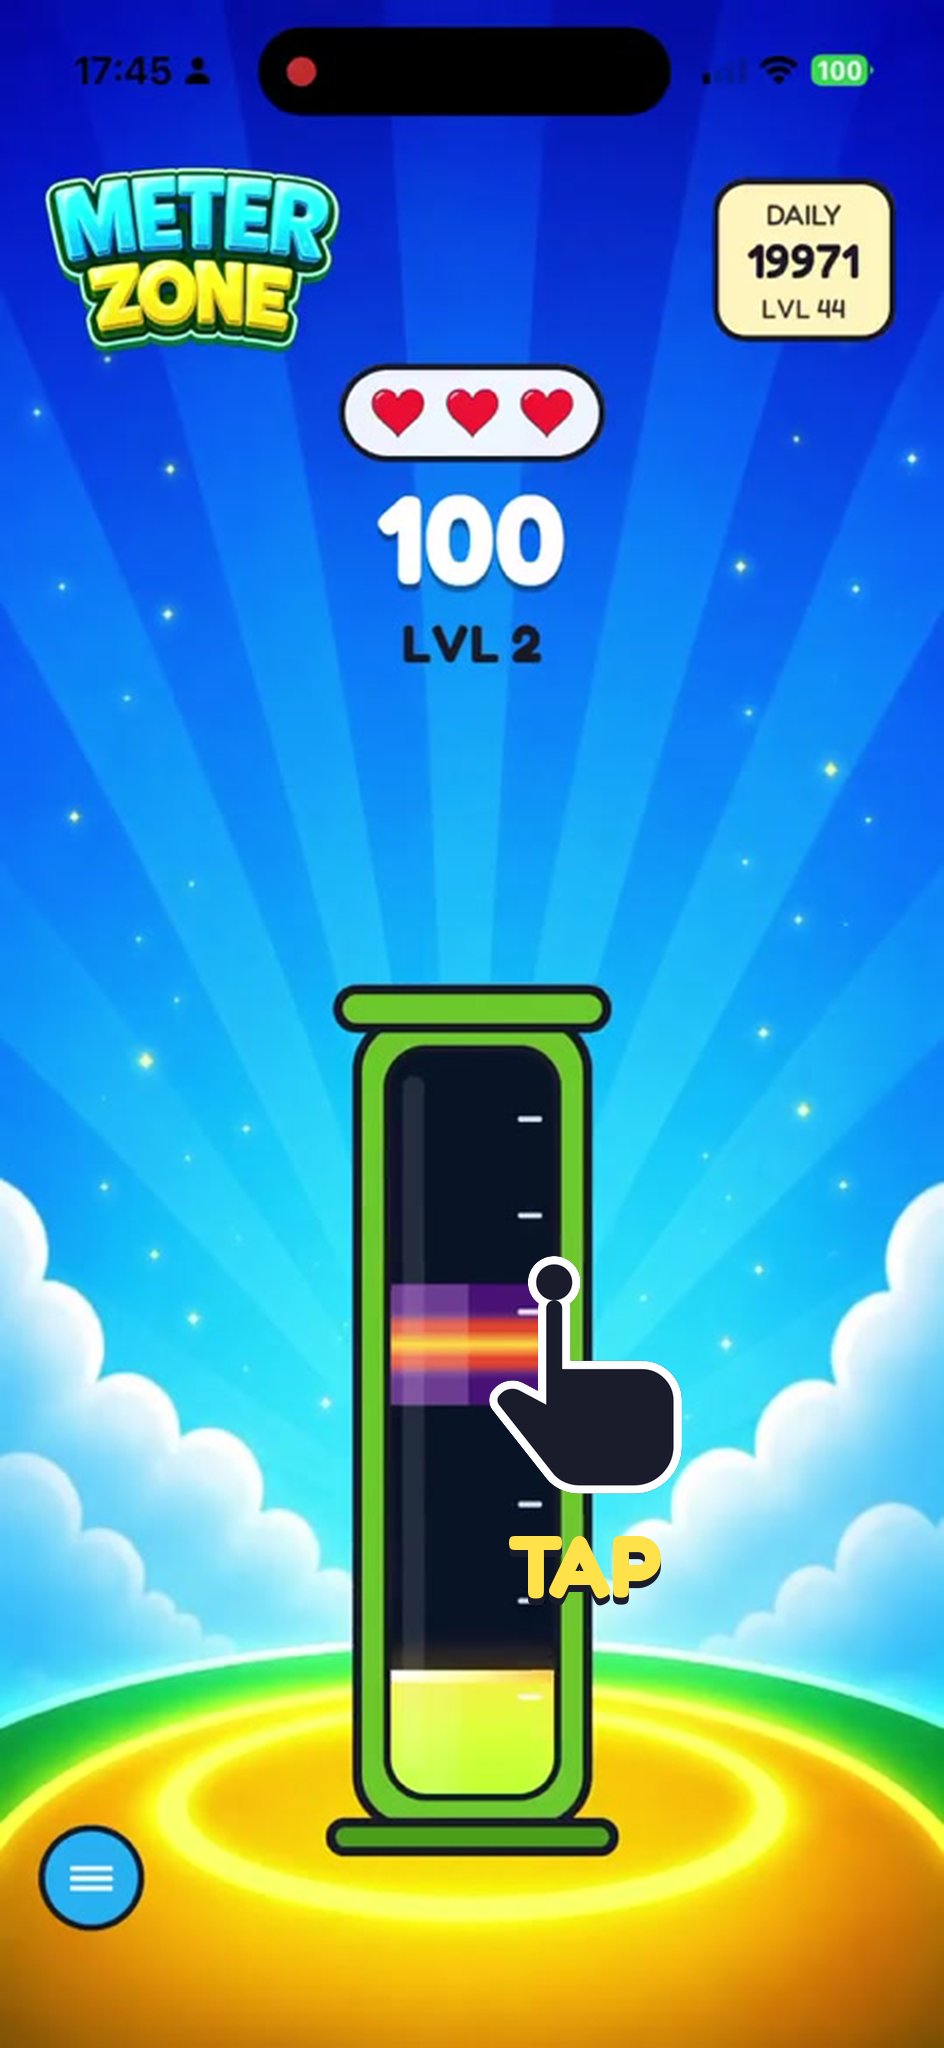
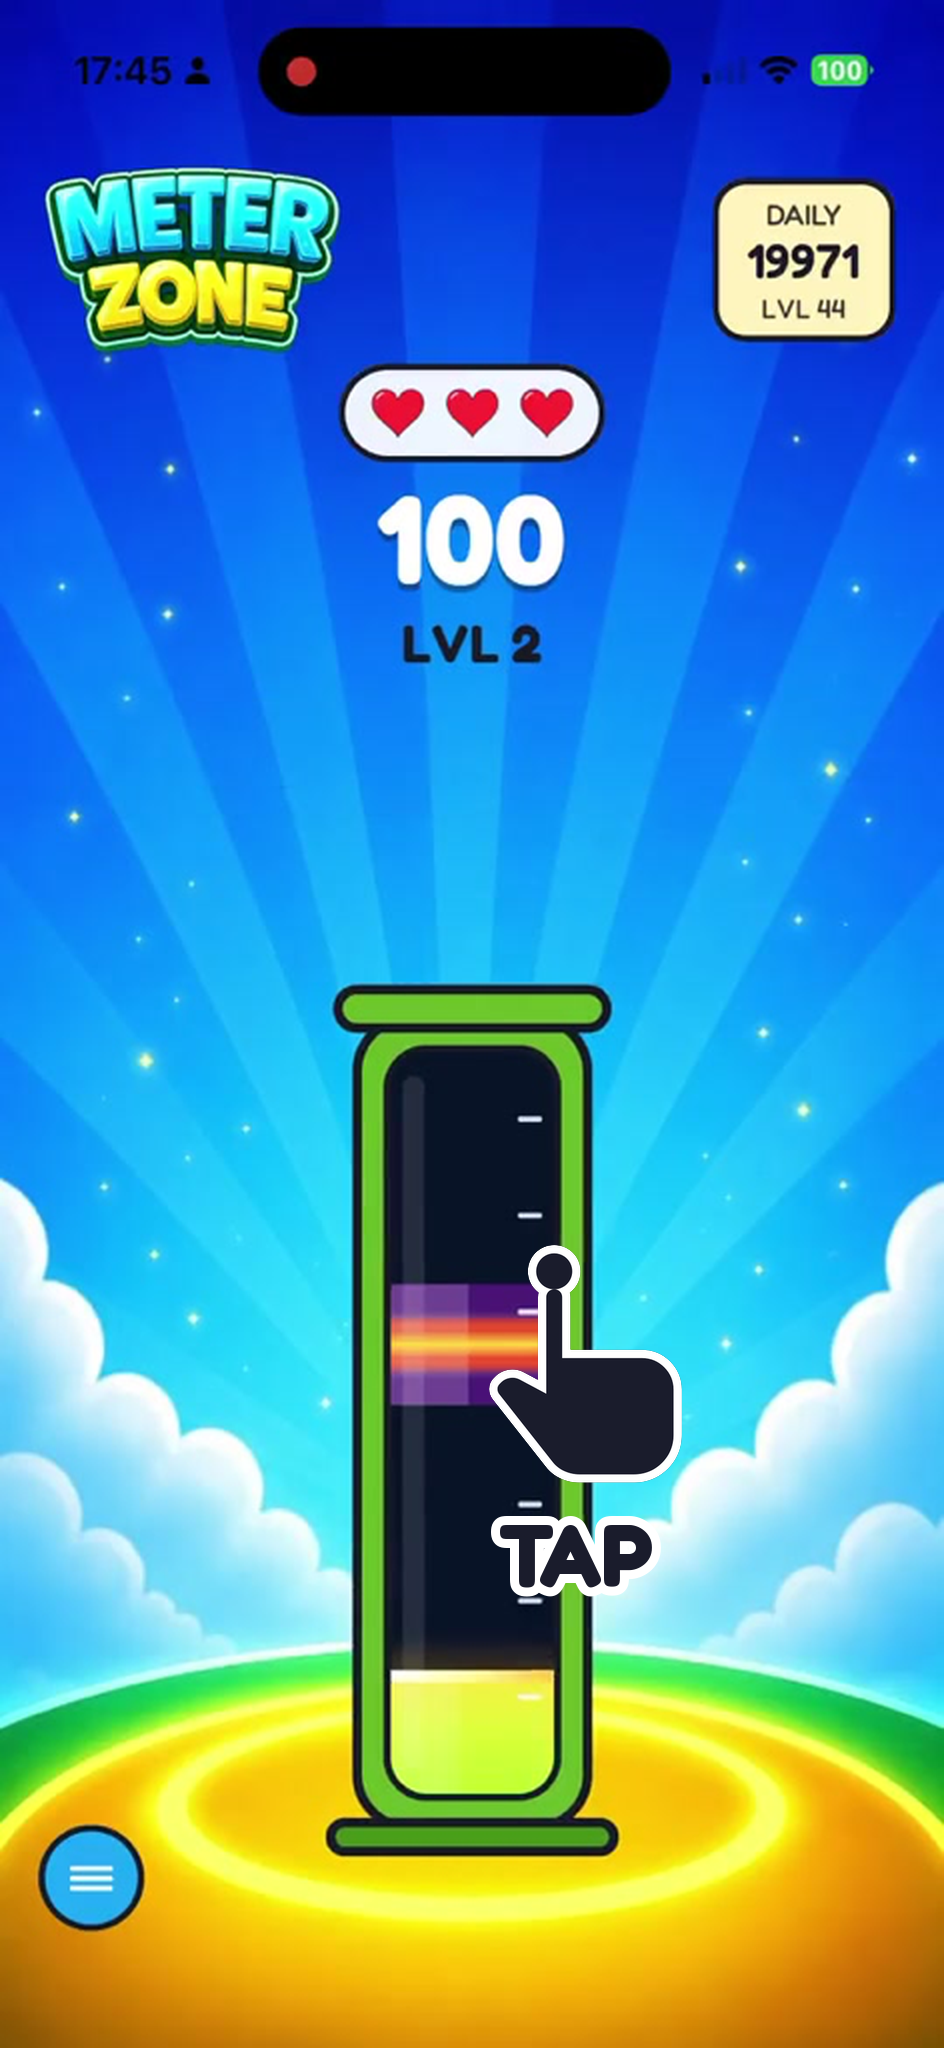
Make TAP coach text black with a white outline
Match the pointing-hand sticker: ink fill and a thick white border
instead of yellow with a drop shadow.

Changed region(s): [[0.5222, 0.5938, 0.7373, 0.7812]]

diff --git a/src/game/TapHint.tsx b/src/game/TapHint.tsx
@@ -77,8 +77,41 @@ export function TapHint({ visible, bottom, shift = 108 }: Props) {
           contentFit="contain"
           cachePolicy="memory-disk"
         />
-        <Text style={styles.label}>TAP</Text>
+        <TapLabel />
       </Animated.View>
+    </View>
+  );
+}
+
+/** Cardinal + diagonal copies so the white outline stays even around the word. */
+const STROKE_OFFSETS = [
+  [-3, 0],
+  [3, 0],
+  [0, -3],
+  [0, 3],
+  [-3, -3],
+  [3, -3],
+  [-3, 3],
+  [3, 3],
+  [-4, 0],
+  [4, 0],
+  [0, -4],
+  [0, 4],
+] as const;
+
+/** Black fill with a thick white outline — same sticker treatment as the hand. */
+function TapLabel() {
+  return (
+    <View style={styles.labelWrap}>
+      {STROKE_OFFSETS.map(([x, y], i) => (
+        <Text
+          key={i}
+          style={[styles.label, styles.labelStroke, { left: x, top: y }]}
+        >
+          TAP
+        </Text>
+      ))}
+      <Text style={[styles.label, styles.labelFill]}>TAP</Text>
     </View>
   );
 }
@@ -98,15 +131,22 @@ const styles = StyleSheet.create({
     width: 92,
     height: 112,
   },
-  label: {
+  labelWrap: {
     marginTop: 2,
+    alignItems: 'center',
+    justifyContent: 'center',
+  },
+  label: {
     fontFamily: GameFonts.display,
     fontSize: 36,
     lineHeight: 40,
     letterSpacing: 2,
-    color: GameColors.lemon,
-    textShadowColor: GameColors.ink,
-    textShadowOffset: { width: 0, height: 3 },
-    textShadowRadius: 0,
+  },
+  labelStroke: {
+    position: 'absolute',
+    color: GameColors.white,
+  },
+  labelFill: {
+    color: GameColors.ink,
   },
 });
